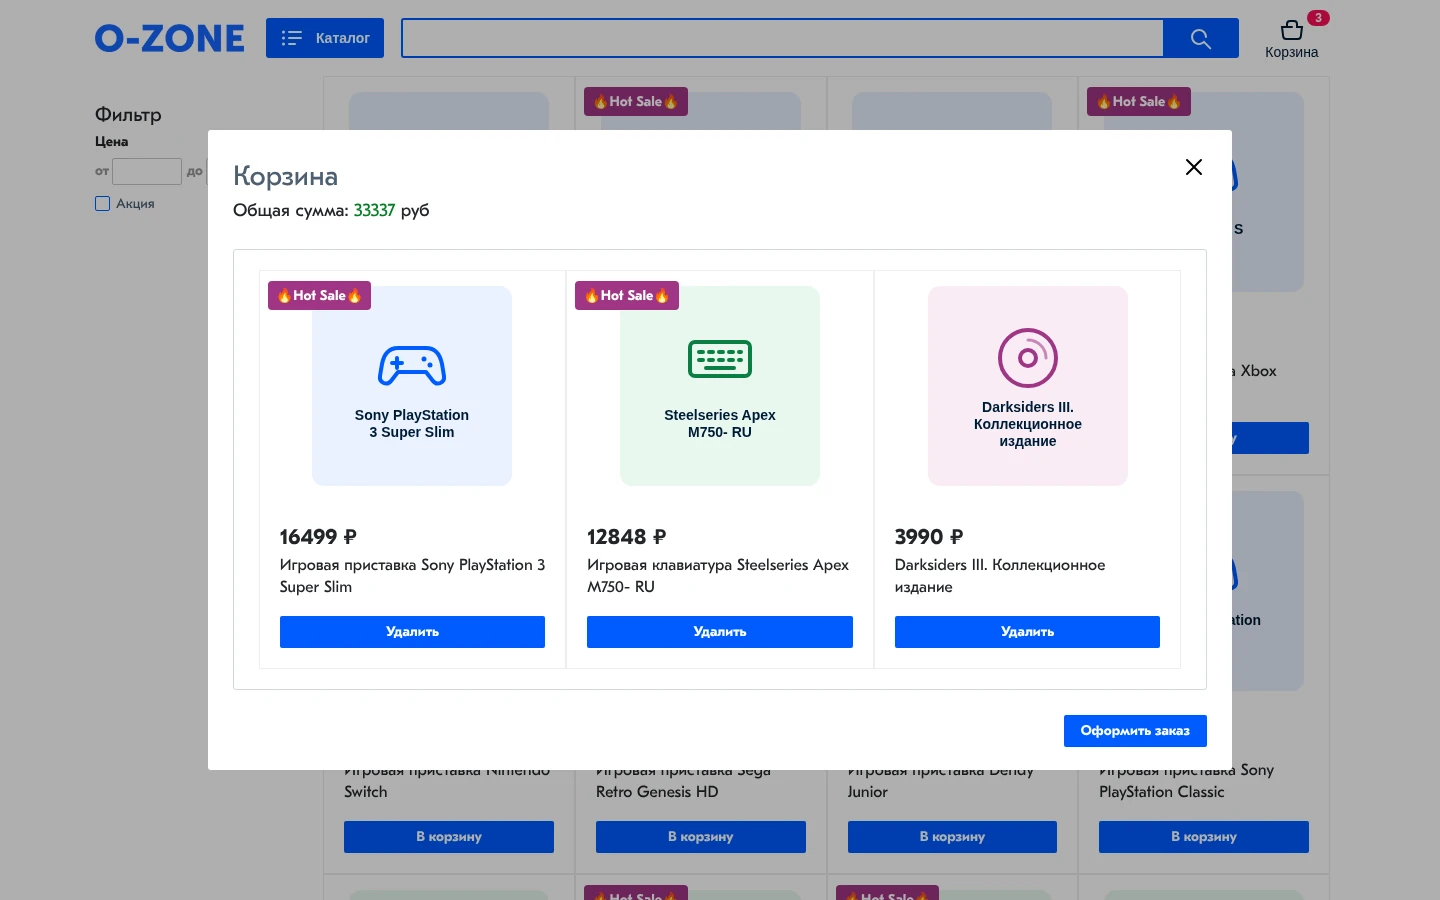
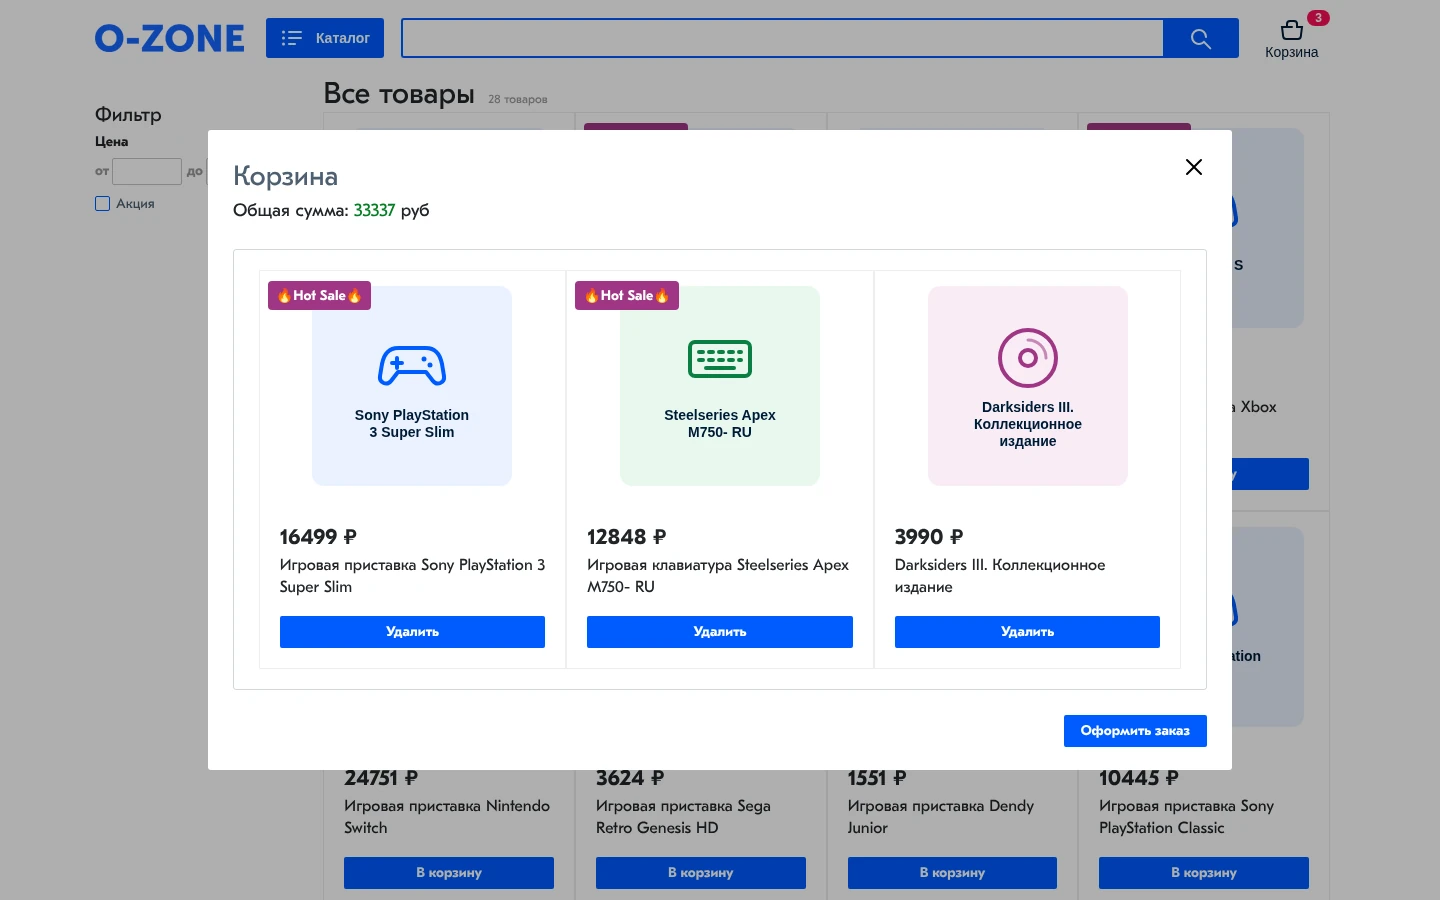
refactor: shared filter state, accessible category menu, category heading and empty state

diff --git a/src/modules/filter.js b/src/modules/filter.js
@@ -1,23 +1,25 @@
 import getData from "./getData"
 import renderGoods from "./renderGoods"
-import { priceFilter, hotSaleFilter } from "./filters"
+import { state, applyFilters } from "./state"
 
 const filter = () => {
     const minInput = document.getElementById('min')
     const maxInput = document.getElementById('max')
     const checkboxInput = document.getElementById('discount-checkbox')
     const checkboxSpan = document.querySelector('.filter-check_checkmark')
-    minInput.addEventListener('input', () => {
-        getData().then((data) => {
-            renderGoods(priceFilter(hotSaleFilter(data, checkboxInput.checked), minInput.value, maxInput.value))
-        })
-    })
 
-    maxInput.addEventListener('input', () => {
+    const update = () => {
+        state.min = minInput.value
+        state.max = maxInput.value
+        state.sale = checkboxInput.checked
         getData().then((data) => {
-            renderGoods(priceFilter(hotSaleFilter(data, checkboxInput.checked), minInput.value, maxInput.value))
+            renderGoods(applyFilters(data))
         })
-    })
+    }
+
+    minInput.addEventListener('input', update)
+
+    maxInput.addEventListener('input', update)
 
     checkboxInput.addEventListener('change', () => {
         if(checkboxInput.checked){
@@ -25,9 +27,7 @@ const filter = () => {
         }else{
             checkboxSpan.classList.remove('checked')
         }
-        getData().then((data) => {
-            renderGoods(priceFilter(hotSaleFilter(data, checkboxInput.checked), minInput.value, maxInput.value))
-        })
+        update()
     })
 }
 

diff --git a/src/modules/catalog.js b/src/modules/catalog.js
@@ -1,12 +1,11 @@
 import getData from "./getData"
 import renderGoods from "./renderGoods"
-import { categoryFilter } from "./filters"
+import { state, applyFilters } from './state'
 
 const catalog = () => {
     const btnCatalog = document.querySelector('.catalog-button > button')
     const catalogModal = document.querySelector('.catalog')
-    const catalogModalItem = document.querySelectorAll('.catalog li')
-
+    const catalogButtons = document.querySelectorAll('.catalog button')
 
     let isOpen = false
 
@@ -20,11 +19,21 @@ const catalog = () => {
         }
     })
 
-    catalogModalItem.forEach(item => {
-        item.addEventListener('click', (e) => {
-            const text = item.textContent
+    catalogButtons.forEach(button => {
+        button.addEventListener('click', () => {
+            state.category = button.dataset.category
+
+            catalogButtons.forEach(btn => {
+                const isActive = btn === button
+                btn.classList.toggle('active', isActive)
+                btn.setAttribute('aria-pressed', isActive)
+            })
+
+            isOpen = false
+            catalogModal.style.display = ''
+
             getData().then((data) => {
-                renderGoods(categoryFilter(data, text))
+                renderGoods(applyFilters(data))
             })
         })
     })

diff --git a/index.html b/index.html
@@ -32,9 +32,10 @@
 					  </button>
 					  <div class="catalog">
 						<ul class="catalog-list">
-							<li>Игровая приставка</li>
-							<li>Периферия для ПК</li>
-							<li>Игры и софт</li>
+							<li><button type="button" data-category="" aria-pressed="true" class="active">Все товары</button></li>
+							<li><button type="button" data-category="Игровая приставка" aria-pressed="false">Игровая приставка</button></li>
+							<li><button type="button" data-category="Периферия для ПК" aria-pressed="false">Периферия для ПК</button></li>
+							<li><button type="button" data-category="Игры и софт" aria-pressed="false">Игры и софт</button></li>
 						</ul>
 					  </div>
 					</div>
@@ -98,15 +99,12 @@
 				</div>
 				<div class="col-12 col-lg-9 col-xl-10">
 					<div class="container">
-						<div class="row no-gutters goods">
-						</div>
+						<h1 class="category-title"><span class="category-name">Все товары</span> <span class="category-count"></span></h1>
+						<div class="row no-gutters goods"></div>
 					</div>
-
 				</div>
 			</div>
 		</div>
-
-
 	</main>
 
 	<div class="cart">

diff --git a/scss/style.scss b/scss/style.scss
@@ -118,19 +118,31 @@
 		margin: 0;
 		padding: 10px;
 		text-align: center;
-  
-		li {
-		  border-bottom: 1px solid #000;
-		  padding: 5px;
-  
-		  &:last-child {
-			border-bottom: none;
-		  }
-  
-		  &:hover {
-			background-color: #333;
-			color: #c5c5c5;
-		  }
+		display: flex;
+		flex-direction: column;
+		gap: 5px;
+		width: 100%;
+	  }
+
+	  // Иначе пункты меню унаследуют синюю заливку кнопки «Каталог» (.catalog-button button)
+	  li > button {
+		width: 100%;
+		background-color: #fff;
+		color: #005bff;
+		border: 2px solid #005bff;
+
+		&:hover {
+		  background-color: #eaf1ff;
+		}
+
+		&:focus-visible {
+		  outline: 2px solid #001a34;
+		  outline-offset: 2px;
+		}
+
+		&.active {
+		  background-color: #005bff;
+		  color: #fff;
 		}
 	  }
   
@@ -485,7 +497,13 @@
 	  letter-spacing: 0.3px;
 	}
   }
-  
+
+  .goods-empty {
+	padding: 40px 0;
+	font-size: 24px;
+	color: #4d5f71;
+  }
+
   .cart {
 	display: none;
 	position: fixed;

diff --git a/src/modules/renderGoods.js b/src/modules/renderGoods.js
@@ -1,3 +1,5 @@
+import { changeInfo } from "./changeInfo"
+
 const renderGoods = (goods) => {
     const goodsWrapper = document.querySelector('.goods')
     localStorage.setItem('goods', JSON.stringify(goods))
@@ -22,6 +24,16 @@ const renderGoods = (goods) => {
             `
         )
     });
+
+    if (goods.length === 0) {
+        goodsWrapper.insertAdjacentHTML('beforeend', `
+            <div class="col-12 goods-empty">
+                Ничего не найдено. Попробуйте изменить запрос или выбрать «Все товары» в каталоге
+            </div>
+        `)
+    }
+
+    changeInfo(goods.length)
 }
 
 export default renderGoods

diff --git a/src/modules/changeInfo.js b/src/modules/changeInfo.js
@@ -1,0 +1,13 @@
+import { state } from "./state";
+
+const pluralRules = new Intl.PluralRules('ru')
+const forms = { one: 'товар', few: 'товара', many: 'товаров', other: 'товара' }
+
+// Заголовок всегда показывает, где ищем, даже если ничего не нашлось
+export const changeInfo = (number) => {
+    const catalogHeading = document.querySelector('.category-name')
+    const catalogCount = document.querySelector('.category-count')
+
+    catalogHeading.textContent = state.category !== '' ? state.category : 'Все товары'
+    catalogCount.textContent = `${number} ${forms[pluralRules.select(number)]}`
+}

diff --git a/src/modules/search.js b/src/modules/search.js
@@ -1,14 +1,14 @@
 import getData from "./getData"
 import renderGoods from "./renderGoods"
-import { searchFilter } from "./filters"
+import { applyFilters, state } from "./state"
 
 const search = () => {
     const searchInput = document.querySelector('.search-wrapper_input')
 
     searchInput.addEventListener('input',  (event) => {
-        const value = event.target.value
+        state.query = event.target.value
         getData().then((data) => {
-            renderGoods(searchFilter(data, value))
+            renderGoods(applyFilters(data))
         })
     })
 }

diff --git a/src/modules/state.js b/src/modules/state.js
@@ -1,0 +1,9 @@
+import { priceFilter, hotSaleFilter, categoryFilter, searchFilter } from "./filters"
+
+// Общее состояние фильтров: каждый модуль меняет своё поле, а applyFilters применяет все условия сразу
+export const state = { query: '', category: '', min: '', max: '', sale: false }
+
+export const applyFilters = (goods) =>
+  priceFilter(
+    hotSaleFilter(categoryFilter(searchFilter(goods, state.query), state.category), state.sale),
+    state.min, state.max)

diff --git a/src/modules/filters.js b/src/modules/filters.js
@@ -3,6 +3,7 @@ export const searchFilter= (goods, value) => {
 }
 
 export const categoryFilter = (goods, value) => {
+    if (!value) return goods
     return goods.filter((goodsItem) => {
         return goodsItem.category == value
     })

diff --git a/README.md b/README.md
@@ -1,6 +1,6 @@
 # webpack-ozon
 
-> 🎓 **Учебный проект (ноябрь 2025).** Интернет-магазин «Ozon» за 4 дня на интенсиве GloAcademy. Вёрстка и логика написаны по ходу занятий, коммиты `Day 1`–`Day 4` соответствуют дням интенсива. Позже я настроила сборку, перевела данные на локальный JSON, заменила недоступные фото товаров заглушками и написала этот README.
+> 🎓 **Учебный проект (ноябрь 2025).** Интернет-магазин «Ozon» за 4 дня на интенсиве GloAcademy. Вёрстка и логика написаны по ходу занятий, коммиты `Day 1`–`Day 4` соответствуют дням интенсива. Позже я настроила сборку, перевела данные на локальный JSON, заменила недоступные фото товаров заглушками, переделала фильтры и меню категорий и написала этот README.
 
 Витрина магазина без фреймворка: товары рендерятся из JSON, есть поиск, категории, фильтр по цене и корзина. Для меня это пример того, как собрать вёрстку на vanilla JS и SCSS через Webpack.
 
@@ -10,8 +10,9 @@
 
 - **Каталог.** 28 товаров из `db/db.json` выводятся карточками, у товаров по акции есть плашка «Hot Sale».
 - **Поиск** по названию срабатывает при вводе, регистр не важен.
-- **Категории.** Кнопка «Каталог» открывает меню из трёх категорий.
+- **Категории.** Кнопка «Каталог» открывает меню: «Все товары» и три категории. Выбранный пункт подсвечен, меню работает с клавиатуры.
 - **Фильтр** по цене «от / до» и чекбокс «Акция». На экранах от 992 px фильтр в боковой колонке, на мобильных он скрыт.
+- **Все фильтры работают вместе.** Поиск, категория, цена и акция применяются одновременно. Над сеткой видно, в какой категории идёт поиск и сколько найдено товаров («Периферия для ПК · 3 товара»). Если ничего не нашлось, вместо карточек появляется подсказка.
 - **Корзина.** Товары можно добавлять и удалять, счётчик в шапке и общая сумма пересчитываются. Корзина хранится в `localStorage` и переживает перезагрузку страницы. «Оформить заказ» отправляет POST на тестовый API [jsonplaceholder](https://jsonplaceholder.typicode.com/) и очищает корзину.
 
 ## Стек
@@ -33,7 +34,9 @@ src/index.js          точка входа: подключает SCSS и зап
 src/modules/
   getData.js          загрузка товаров из db/db.json
   load.js             первичный рендер каталога
-  renderGoods.js      карточки товаров
+  renderGoods.js      карточки товаров и сообщение «Ничего не найдено»
+  changeInfo.js       заголовок над сеткой: категория и число товаров
+  state.js            общее состояние фильтров и applyFilters()
   search.js           поиск
   catalog.js          меню категорий
   filter.js           цена и «Акция»
@@ -140,11 +143,17 @@ python3 -m http.server 8000 -d /tmp/preview   # → http://localhost:8000/webpac
   <img src="./screenshots/mobile-cart.webp" alt="Корзина на мобильном" width="30%">
 </p>
 
+## Что я доработала после интенсива
+
+- **Фильтры складываются.** В версии с интенсива поиск, категория и цена каждый раз начинали с полного списка товаров: если выбрать «Периферия для ПК», а потом ввести цену, категория сбрасывалась. Теперь в `state.js` хранится одно состояние `{ query, category, min, max, sale }`. Каждый модуль меняет своё поле, а `applyFilters()` прогоняет товары через все фильтры сразу.
+- **Меню категорий.** Раньше это были `<li>` с обработчиком клика, до которых нельзя добраться с клавиатуры, и без возможности вернуться ко всем товарам. Теперь это `<button>` с `data-category` и `aria-pressed`, есть пункт «Все товары», выбранная категория подсвечена, меню закрывается после выбора.
+- **Видно, где ищем.** Заголовок над сеткой показывает текущую категорию и число найденных товаров с правильным склонением через `Intl.PluralRules` («1 товар», «3 товара», «28 товаров»). Для него использованы стили `.category-title` и `.category-count`, которые были в SCSS с интенсива, но не использовались.
+- **Пустой результат.** Если ничего не нашлось, вместо пустой сетки выводится подсказка. Заголовок при этом продолжает показывать категорию, чтобы было понятно, что поиск ограничен ею.
+
 ## Что бы я сделала иначе сейчас
 
-Код интенсива я оставила почти как есть. Изменения коснулись только загрузки данных и подключения к сборке. Вот что я бы переделала:
+Остальной код интенсива я оставила как есть. Вот что я бы ещё переделала:
 
-- **Фильтры не складываются.** Поиск, категория и фильтр по цене каждый раз начинают с полного списка товаров. Если выбрать «Периферия для ПК», а потом ввести цену, категория сбрасывается. Правильнее хранить одно состояние (`{ query, category, min, max, sale }`) и прогонять товары через все фильтры сразу.
 - **Данные загружаются заново на каждое нажатие клавиши.** `getData()` вызывается при каждом `input`. С локальным файлом это незаметно, но достаточно загрузить товары один раз и держать их в памяти.
 - **Счётчик в шапке не обнуляется после «Оформить заказ»** и сбрасывается только после перезагрузки страницы. Кроме того, заказ можно отправить из пустой корзины.
 - **Граничные цены не попадают в фильтр.** Условия `>` и `<` вместо `>=` и `<=`: при фильтре «от 3624» товар за 3624 ₽ не показывается.
@@ -152,4 +161,4 @@ python3 -m http.server 8000 -d /tmp/preview   # → http://localhost:8000/webpac
 - **Разметка через `innerHTML` в шаблонных строках.** Для учебных данных это допустимо, но с настоящими данными нужны экранирование или `textContent` / `<template>`.
 - **Внешние зависимости.** Bootstrap подключён целиком с CDN ради сетки, хотя хватило бы CSS Grid. Фото товаров брались с чужого CDN по прямым ссылкам. Когда ссылки перестали работать, у всех карточек пропали картинки, поэтому теперь вместо них заглушки. Для настоящего магазина изображения стоит хранить у себя.
 - **Мелочи вёрстки.** Иконка закрытия корзины чёрная, потому что в SVG написано `fill='005bff'` без `#`. Шрифт `GTEestiProDisplay` используется, но не подключён. `Medium`-начертание лежит в `fonts/` и нигде не используется. Манифест фавиконок пустой, пути в нём от корня домена. Фильтр на мобильных просто скрыт.
-- **Доступность.** Каталог сделан на `<li>` с обработчиком клика, а корзина открывается ссылкой `href="#"`. Такие элементы недоступны с клавиатуры, у поля поиска нет `label`, а у модального окна нет фокус-ловушки и закрытия по Esc.
+- **Доступность.** Корзина открывается ссылкой `href="#"`, у поля поиска нет `label`, у модального окна нет фокус-ловушки и закрытия по Esc, а меню категорий не закрывается по Esc и клику мимо.
